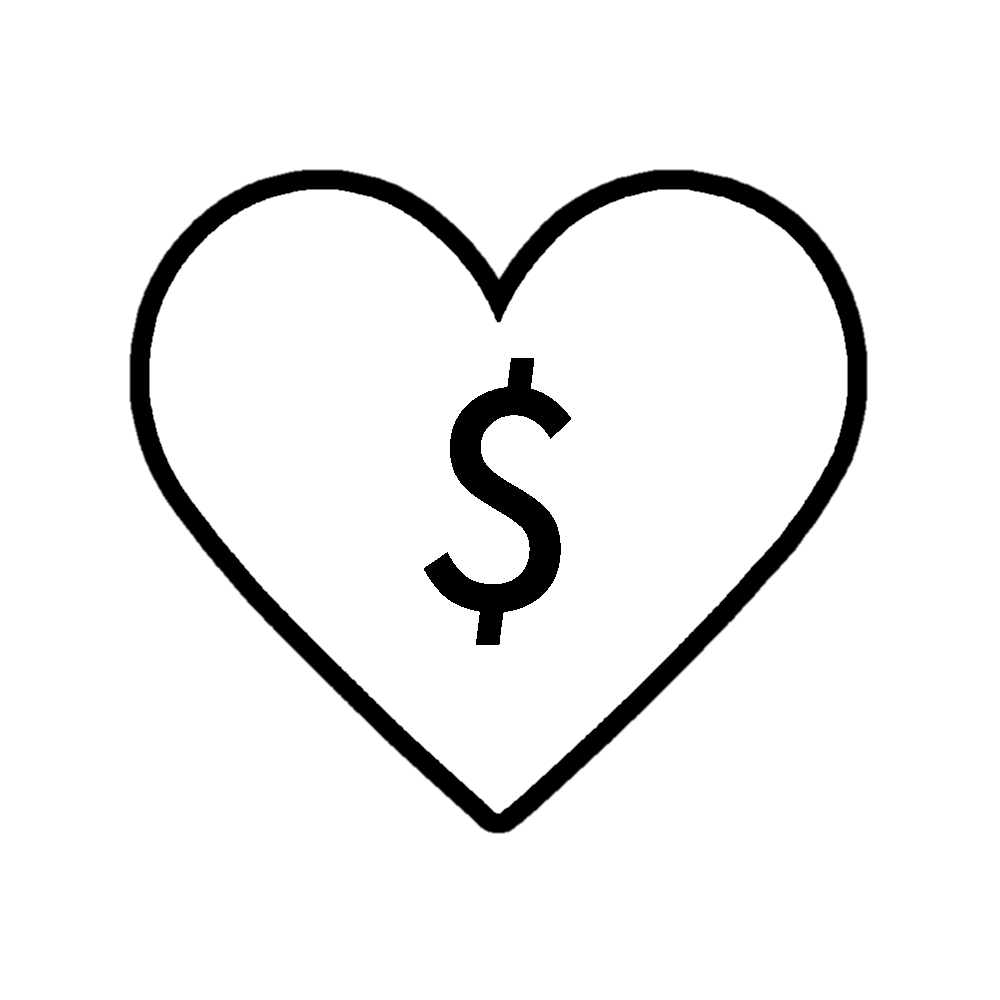
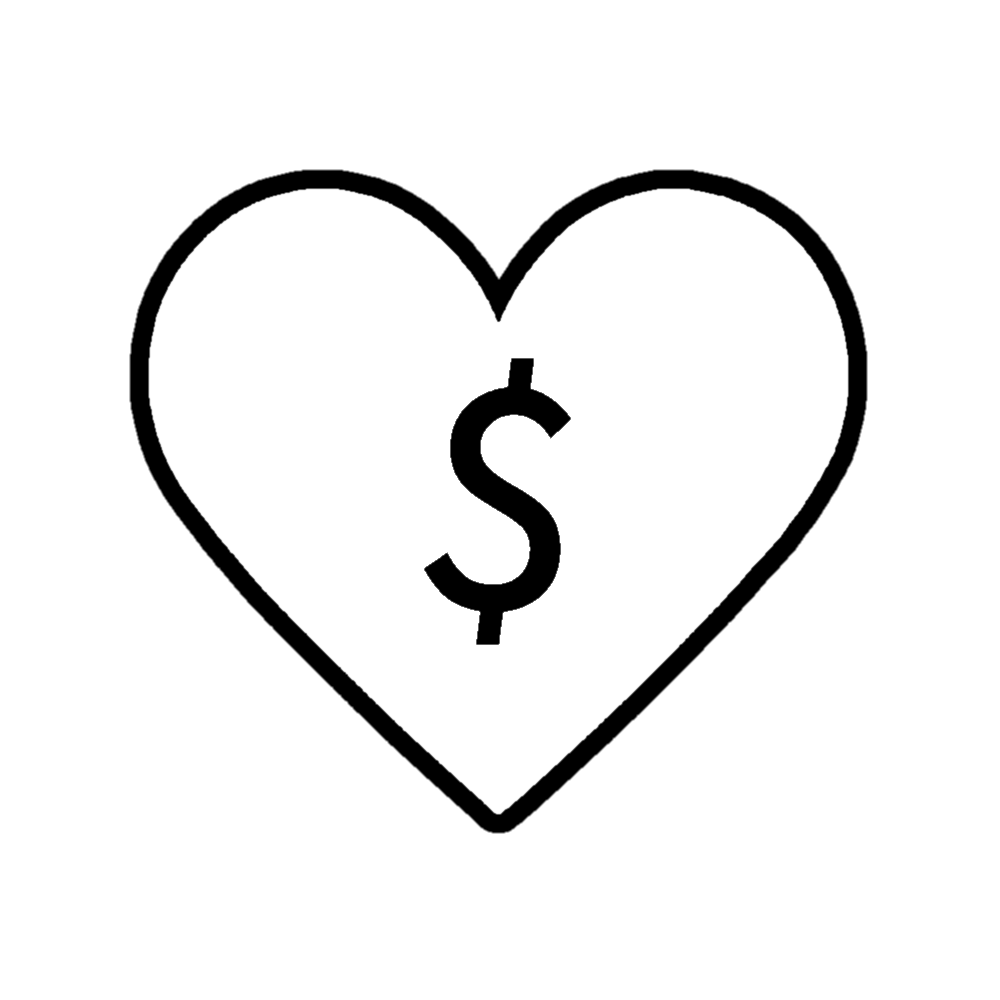
22

diff --git a/docs/index.html b/docs/index.html
@@ -243,9 +243,10 @@ table {
   height: 100%;
   overflow-y: scroll;
   position: relative;
-  opacity: 0;
+  opacity: .1;
   display: block;
   z-index: 3;
+  transition-duration: .3s;
 }
 .songSelection:hover {
   opacity: 1;
@@ -639,7 +640,7 @@ input[type="range"]::-webkit-slider-thumb {
 }
 .chatPosts {
   padding: 0px;
-  margin: 0px; 
+  margin-top: 15px; 
   width: 100%;
   max-width: 100%;
   flex: 1;
@@ -769,8 +770,7 @@ li {
   top: 0;
   right: 0;
   bottom: 0;
-  min-width: 60px; /* or whatever minimum you want */
-  padding: 0 2px;
+  padding: 0 5px;
   background-color: rgba(50, 50, 50, .4);
   backdrop-filter: blur(5px);
   display: flex;
@@ -778,6 +778,8 @@ li {
   justify-content: center;
   text-align: center;
   line-height: 1.1;
+  transition-duration: .5s;
+  min-width: 55px;
 }
 .plays {
   position: static;